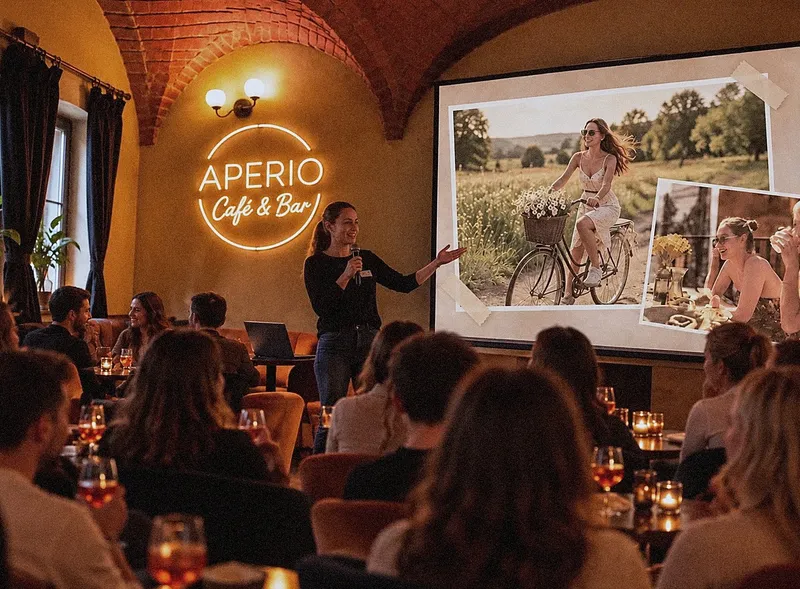
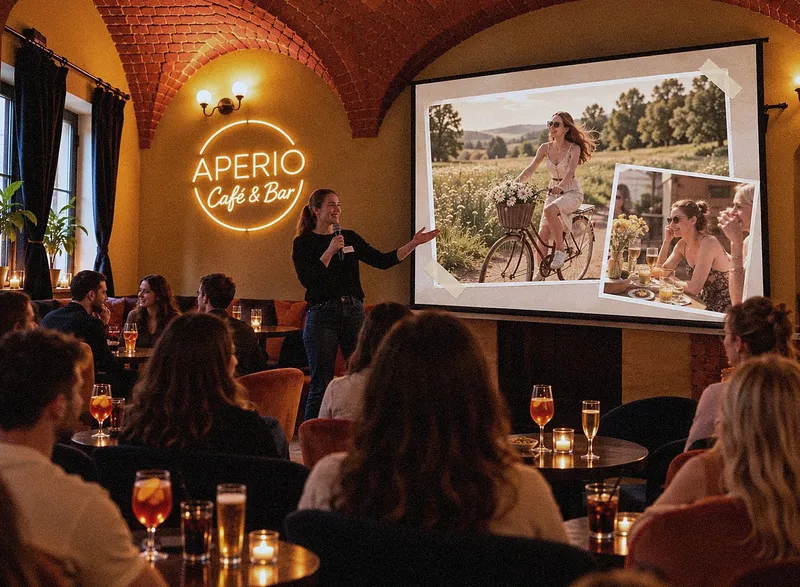
SINGLES SHOW: nová fotka APERIO, jemnejšia oranžová

diff --git a/single-show.html b/single-show.html
@@ -82,7 +82,7 @@
           </ul>
         </div>
         <div class="show-intro-photo">
-          <img fetchpriority="high" src="img/show-hero-aperio.webp?v=3" srcset="img/show-hero-aperio-800.webp?v=3 800w, img/show-hero-aperio.webp?v=3 1400w" sizes="(max-width: 760px) 100vw, 50vw" alt="Moderátorka v bare s mikrofónom ukazuje na plátno s fotkami, publikum sedí pri sviečkach" width="1392" height="1026">
+          <img fetchpriority="high" src="img/show-hero-aperio.webp?v=4" srcset="img/show-hero-aperio-800.webp?v=4 800w, img/show-hero-aperio.webp?v=4 1400w" sizes="(max-width: 760px) 100vw, 50vw" alt="Moderátorka v bare s mikrofónom ukazuje na plátno s fotkami, publikum sedí pri sviečkach" width="1463" height="1075">
           <p class="hand show-side-note show-intro-hand">Žiadne neosobné profily z appky ani nekonečné swipovanie.</p>
         </div>
       </div>
